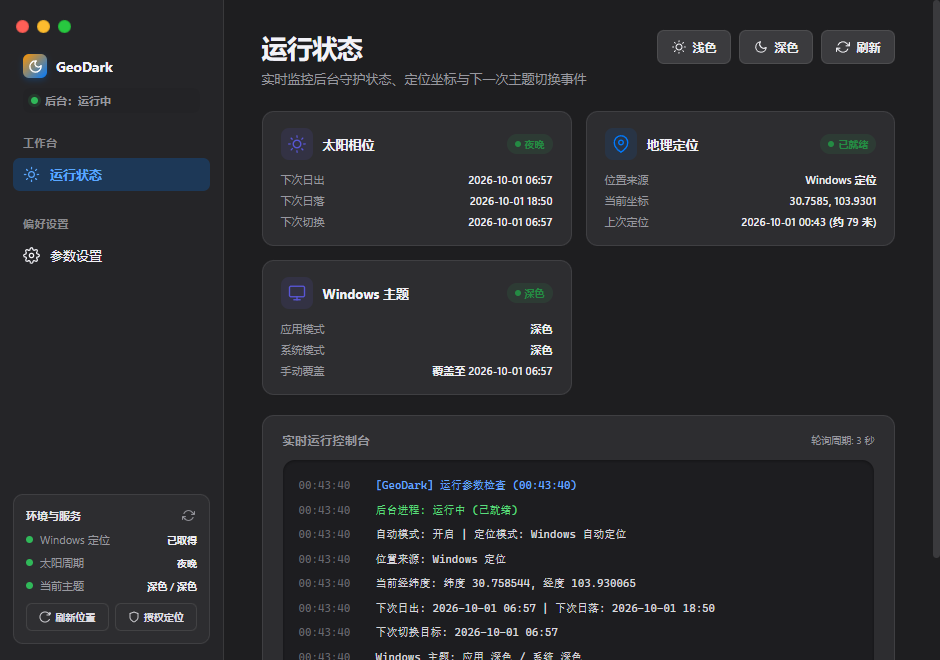
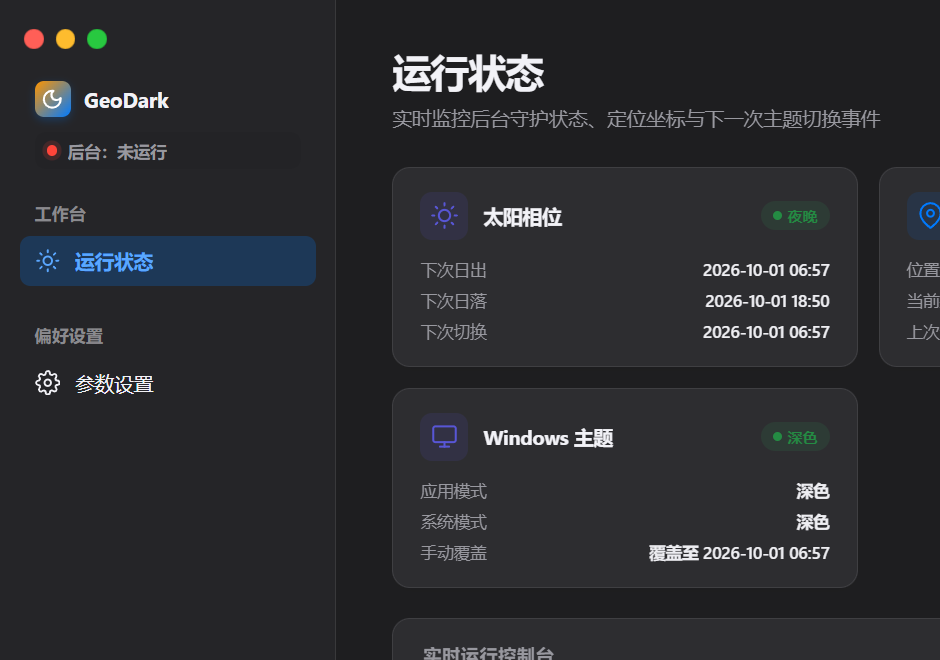
fix: make the desktop window per-monitor DPI aware

diff --git a/src/ui.cpp b/src/ui.cpp
@@ -163,8 +163,19 @@ public:
 
         if (!RegisterClassExW(&klass)) return 1;
 
-        const int width = 940;
-        const int height = 660;
+        UINT dpi = 96;
+        HMODULE user32_mod = GetModuleHandleW(L"user32.dll");
+        if (user32_mod) {
+            typedef UINT (WINAPI* GetDpiForSystemProc)();
+            auto get_dpi = reinterpret_cast<GetDpiForSystemProc>(GetProcAddress(user32_mod, "GetDpiForSystem"));
+            if (get_dpi) {
+                dpi = get_dpi();
+            }
+        }
+        if (dpi == 0) dpi = 96;
+
+        const int width = MulDiv(940, dpi, 96);
+        const int height = MulDiv(660, dpi, 96);
         const int screen_w = GetSystemMetrics(SM_CXSCREEN);
         const int screen_h = GetSystemMetrics(SM_CYSCREEN);
         const int x = (screen_w - width) / 2;
@@ -497,6 +508,20 @@ private:
             return HTCLIENT;
         }
 
+        case WM_DPICHANGED: {
+            const RECT* rect = reinterpret_cast<const RECT*>(lp);
+            SetWindowPos(window, nullptr,
+                         rect->left, rect->top,
+                         rect->right - rect->left, rect->bottom - rect->top,
+                         SWP_NOZORDER | SWP_NOACTIVATE);
+            if (app->controller_) {
+                RECT bounds;
+                GetClientRect(window, &bounds);
+                app->controller_->put_Bounds(bounds);
+            }
+            return 0;
+        }
+
         case WM_SIZE:
             if (app->controller_) {
                 RECT bounds;
@@ -531,6 +556,7 @@ private:
 } // namespace geodark
 
 int WINAPI wWinMain(HINSTANCE instance, HINSTANCE, PWSTR, int show) {
+    SetProcessDpiAwarenessContext(DPI_AWARENESS_CONTEXT_PER_MONITOR_AWARE_V2);
     geodark::UiApp app(instance);
     return app.run(show);
 }

diff --git a/src/ui_html.h b/src/ui_html.h
@@ -24,6 +24,9 @@ inline std::string get_ui_html() {
       font-synthesis: none;
       text-size-adjust: 100%;
       -webkit-text-size-adjust: 100%;
+      -webkit-font-smoothing: antialiased;
+      -moz-osx-font-smoothing: grayscale;
+      text-rendering: optimizeLegibility;
       --blue: #007aff;
       --blue-dark: #0066d6;
       --surface: rgba(255, 255, 255, 0.86);
@@ -44,6 +47,7 @@ inline std::string get_ui_html() {
     svg {
       width: 18px; height: 18px; fill: none; stroke: currentColor;
       stroke-width: 1.8; stroke-linecap: round; stroke-linejoin: round;
+      shape-rendering: geometricPrecision;
     }
     .window-shell {
       height: 100%; display: flex; flex-direction: row; background: #f5f5f7; overflow: hidden;
